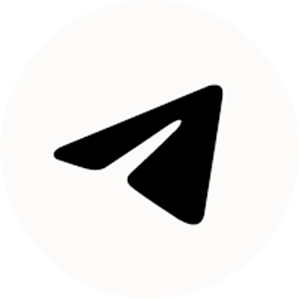
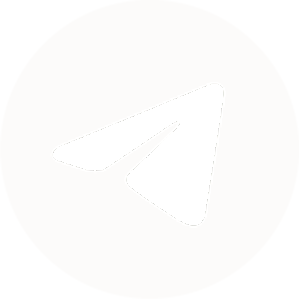
новые соцсети

Changed region(s): [[0.1806, 0.2709, 0.7525, 0.7525]]

diff --git a/coach.html b/coach.html
@@ -34,7 +34,7 @@
             </div>
 
             <div class="socials">
-                <a href="#https://max.ru/" class="social insta"></a>
+                <a href="https://t.me/needles_cheer_spb" class="social insta"></a>
                 <a href="https://vk.com/needles_cheer" class="social tg"></a>
                 <a href="#tel:+79991234567" class="social pin"></a>
                 <a href="https://rutube.ru/video/a620a1231fd78f51c83b2803b6fafab0/" class="social wa"></a>
@@ -350,10 +350,10 @@
                     </div>
                     <div class="footer-colum footer-right">
                        <div class="socials">
-                            <a href="#https://max.ru/" class="social insta"></a>
-                            <a href="#https://vk.com/needles_cheer" class="social tg"></a>
+                            <a href="https://t.me/needles_cheer_spb" class="social insta"></a>
+                            <a href="https://vk.com/needles_cheer" class="social tg"></a>
                             <a href="#tel:+79991234567" class="social pin"></a>
-                            <a href="#https://rutube.ru/video/a620a1231fd78f51c83b2803b6fafab0/" class="social wa"></a>
+                            <a href="https://rutube.ru/video/a620a1231fd78f51c83b2803b6fafab0/" class="social wa"></a>
                         </div>
                         <p class="footer-text address-tablet">Адрес: Санкт-Петербург, <br class="br-mobile">ул. Больая Морская, д. 18</p>
                         <a class="footer-text hover" href="Privacy-policy.html">Конфиденциальная информация_документ</a>

diff --git a/index.html b/index.html
@@ -33,7 +33,7 @@
             </div>
 
             <div class="socials">
-                <a href="#https://max.ru/" class="social insta"></a>
+                <a href="https://t.me/needles_cheer_spb" class="social insta"></a>
                 <a href="https://vk.com/needles_cheer" class="social tg"></a>
                 <a href="tel:+79991234567" class="social pin"></a>
                 <a href="https://rutube.ru/video/a620a1231fd78f51c83b2803b6fafab0/" class="social wa"></a>
@@ -350,10 +350,10 @@
                     </div>
                     <div class="footer-colum footer-right">
                        <div class="socials">
-                            <a href="#https://max.ru/" class="social insta"></a>
-                            <a href="#https://vk.com/needles_cheer" class="social tg"></a>
+                            <a href="https://t.me/needles_cheer_spb" class="social insta"></a>
+                            <a href="https://vk.com/needles_cheer" class="social tg"></a>
                             <a href="#tel:+79991234567" class="social pin"></a>
-                            <a href="#https://rutube.ru/video/a620a1231fd78f51c83b2803b6fafab0/" class="social wa"></a>
+                            <a href="https://rutube.ru/video/a620a1231fd78f51c83b2803b6fafab0/" class="social wa"></a>
                         </div>
                         <p class="footer-text address-tablet">Адрес: Санкт-Петербург, <br class="br-mobile">ул. Больая Морская, д. 18</p>
                         <a class="footer-text hover" href="Privacy-policy.html">Конфиденциальная информация_документ</a>

diff --git a/information.html b/information.html
@@ -33,7 +33,7 @@
             </div>
 
             <div class="socials">
-                <a href="#https://max.ru/" class="social insta"></a>
+                <a href="https://t.me/needles_cheer_spb" class="social insta"></a>
                 <a href="https://vk.com/needles_cheer" class="social tg"></a>
                 <a href="#tel:+79991234567" class="social pin"></a>
                 <a href="https://rutube.ru/video/a620a1231fd78f51c83b2803b6fafab0/" class="social wa"></a>
@@ -177,10 +177,10 @@
                     </div>
                     <div class="footer-colum footer-right">
                        <div class="socials">
-                            <a href="#https://max.ru/" class="social insta"></a>
-                            <a href="#https://vk.com/needles_cheer" class="social tg"></a>
+                            <a href="https://t.me/needles_cheer_spb" class="social insta"></a>
+                            <a href="https://vk.com/needles_cheer" class="social tg"></a>
                             <a href="#tel:+79991234567" class="social pin"></a>
-                            <a href="#https://rutube.ru/video/a620a1231fd78f51c83b2803b6fafab0/" class="social wa"></a>
+                            <a href="https://rutube.ru/video/a620a1231fd78f51c83b2803b6fafab0/" class="social wa"></a>
                         </div>
                         <p class="footer-text address-tablet">Адрес: Санкт-Петербург, <br class="br-mobile">ул. Больая Морская, д. 18</p>
                         <a class="footer-text" href="Privacy-policy.html">Конфиденциальная информация_документ</a>

diff --git a/gallery.html b/gallery.html
@@ -33,7 +33,7 @@
             </div>
 
             <div class="socials">
-                <a href="#https://max.ru/" class="social insta"></a>
+                <a href="https://t.me/needles_cheer_spb" class="social insta"></a>
                 <a href="https://vk.com/needles_cheer" class="social tg"></a>
                 <a href="#tel:+79991234567" class="social pin"></a>
                 <a href="https://rutube.ru/video/a620a1231fd78f51c83b2803b6fafab0/" class="social wa"></a>
@@ -215,10 +215,10 @@
                     </div>
                     <div class="footer-colum footer-right">
                        <div class="socials">
-                            <a href="#https://max.ru/" class="social insta"></a>
-                            <a href="#https://vk.com/needles_cheer" class="social tg"></a>
+                            <a href="https://t.me/needles_cheer_spb" class="social insta"></a>
+                            <a href="https://vk.com/needles_cheer" class="social tg"></a>
                             <a href="#tel:+79991234567" class="social pin"></a>
-                            <a href="#https://rutube.ru/video/a620a1231fd78f51c83b2803b6fafab0/" class="social wa"></a>
+                            <a href="https://rutube.ru/video/a620a1231fd78f51c83b2803b6fafab0/" class="social wa"></a>
                         </div>
                         <p class="footer-text address-tablet">Адрес: Санкт-Петербург, <br class="br-mobile">ул. Большая Морская, д. 18</p>
                         <p class="footer-text hover">Конфиденциальная информация_документ</p>

diff --git a/commerce.html b/commerce.html
@@ -33,7 +33,7 @@
             </div>
 
             <div class="socials">
-                <a href="#https://max.ru/" class="social insta"></a>
+                <a href="https://t.me/needles_cheer_spb" class="social insta"></a>
                 <a href="https://vk.com/needles_cheer" class="social tg"></a>
                 <a href="#tel:+79991234567" class="social pin"></a>
                 <a href="https://rutube.ru/video/a620a1231fd78f51c83b2803b6fafab0/" class="social wa"></a>
@@ -129,10 +129,10 @@
                     </div>
                     <div class="footer-colum footer-right">
                        <div class="socials">
-                            <a href="#https://max.ru/" class="social insta"></a>
-                            <a href="#https://vk.com/needles_cheer" class="social tg"></a>
+                            <a href="https://t.me/needles_cheer_spb" class="social insta"></a>
+                            <a href="https://vk.com/needles_cheer" class="social tg"></a>
                             <a href="#tel:+79991234567" class="social pin"></a>
-                            <a href="#https://rutube.ru/video/a620a1231fd78f51c83b2803b6fafab0/" class="social wa"></a>
+                            <a href="https://rutube.ru/video/a620a1231fd78f51c83b2803b6fafab0/" class="social wa"></a>
                         </div>
                         <p class="footer-text address-tablet">Адрес: Санкт-Петербург, <br class="br-mobile">ул. Больая Морская, д. 18</p>
                         <p class="footer-text hover">Конфиденциальная информация_документ</p>

diff --git a/events.html b/events.html
@@ -34,7 +34,7 @@
             </div>
 
             <div class="socials">
-                <a href="#https://max.ru/" class="social insta"></a>
+                <a href="https://t.me/needles_cheer_spb" class="social insta"></a>
                 <a href="https://vk.com/needles_cheer" class="social tg"></a>
                 <a href="#tel:+79991234567" class="social pin"></a>
                 <a href="https://rutube.ru/video/a620a1231fd78f51c83b2803b6fafab0/" class="social wa"></a>
@@ -190,10 +190,10 @@
                     </div>
                     <div class="footer-colum footer-right">
                        <div class="socials">
-                            <a href="#https://max.ru/" class="social insta"></a>
-                            <a href="#https://vk.com/needles_cheer" class="social tg"></a>
+                            <a href="https://t.me/needles_cheer_spb" class="social insta"></a>
+                            <a href="https://vk.com/needles_cheer" class="social tg"></a>
                             <a href="#tel:+79991234567" class="social pin"></a>
-                            <a href="#https://rutube.ru/video/a620a1231fd78f51c83b2803b6fafab0/" class="social wa"></a>
+                            <a href="https://rutube.ru/video/a620a1231fd78f51c83b2803b6fafab0/" class="social wa"></a>
                         </div>
                         <p class="footer-text address-tablet">Адрес: Санкт-Петербург, <br class="br-mobile">ул. Больая Морская, д. 18</p>
                         <p class="footer-text hover">Конфиденциальная информация_документ</p>

diff --git a/Privacy-policy.html b/Privacy-policy.html
@@ -355,10 +355,10 @@
                     </div>
                     <div class="footer-colum footer-right">
                        <div class="socials">
-                            <a href="#"><img src="/images/inst.png" alt="Instagram" style="width: 48px; height: 48px;"></a>
-                            <a href="#"><img src="/images/telega.png" alt="Telegram" style="width: 48px; height: 48px;"></a>
-                            <a href="#"><img src="/images/pint.png" alt="VK" style="width: 48px; height: 48px;"></a>
-                            <a href="#"><img src="/images/what.png" alt="YouTube" style="width: 48px; height: 48px;"></a>
+                            <a href="https://t.me/needles_cheer_spb" class="social insta"></a>
+                            <a href="https://vk.com/needles_cheer" class="social tg"></a>
+                            <a href="#tel:+79991234567" class="social pin"></a>
+                            <a href="https://rutube.ru/video/a620a1231fd78f51c83b2803b6fafab0/" class="social wa"></a>
                         </div>
                         <p class="footer-text address-tablet">Адрес: Санкт-Петербург, <br class="br-mobile">ул. Больая Морская, д. 18</p>
                         <a class="footer-text hover" href="Privacy-policy.html">Конфиденциальная информация_документ</a>

diff --git a/styles/styles.css b/styles/styles.css
@@ -96,7 +96,7 @@ body {
 
 /* обычные иконки */
 .insta {
-    background-image: url('/images/max.png');
+    background-image: url('/images/telega.png');
 }
 
 .tg {
@@ -113,7 +113,7 @@ body {
 
 /* hover */
 .insta:hover {
-    background-image: url('/images/max_hover.png');
+    background-image: url('/images/telega2.png');
 }
 
 .tg:hover {
@@ -129,7 +129,7 @@ body {
 }
 
 .insta:active {
-    background-image: url('/images/max_active.png');
+    background-image: url('/images/telega3.png');
 }
 
 .tg:active {
